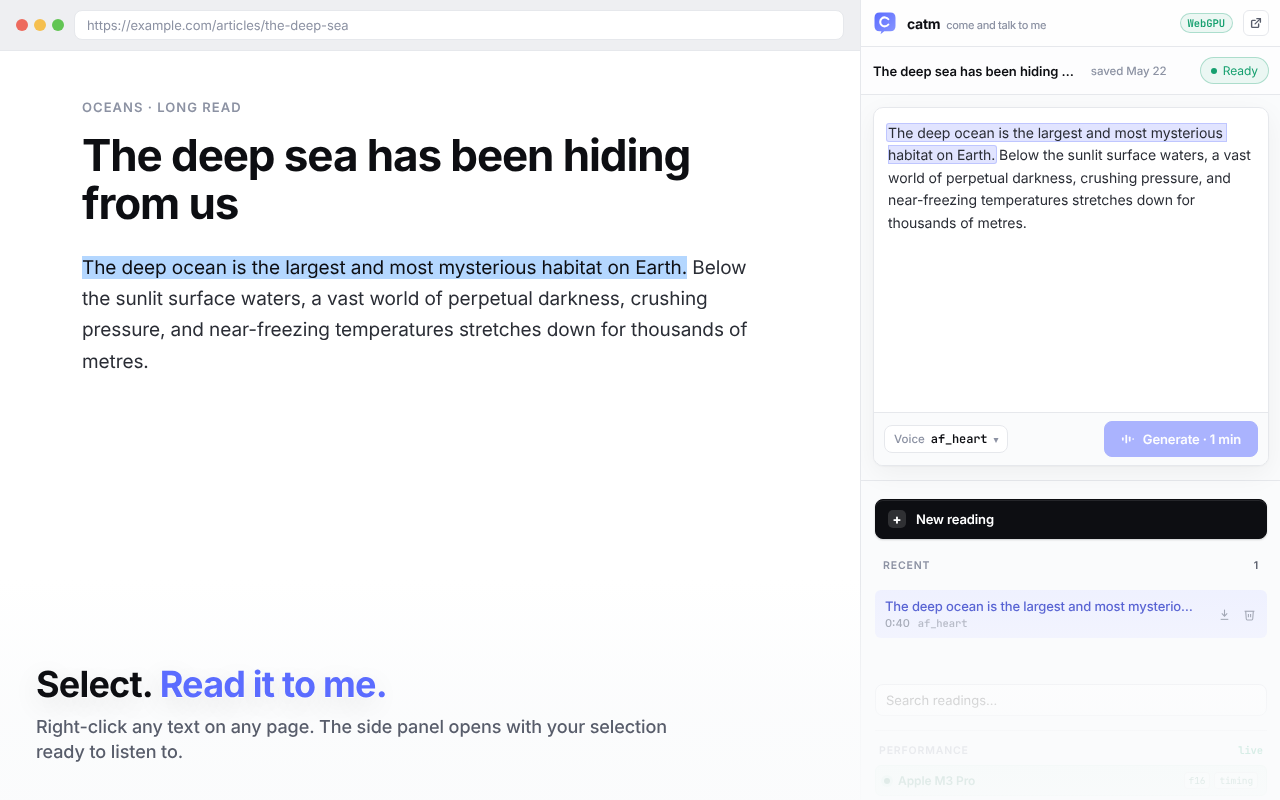
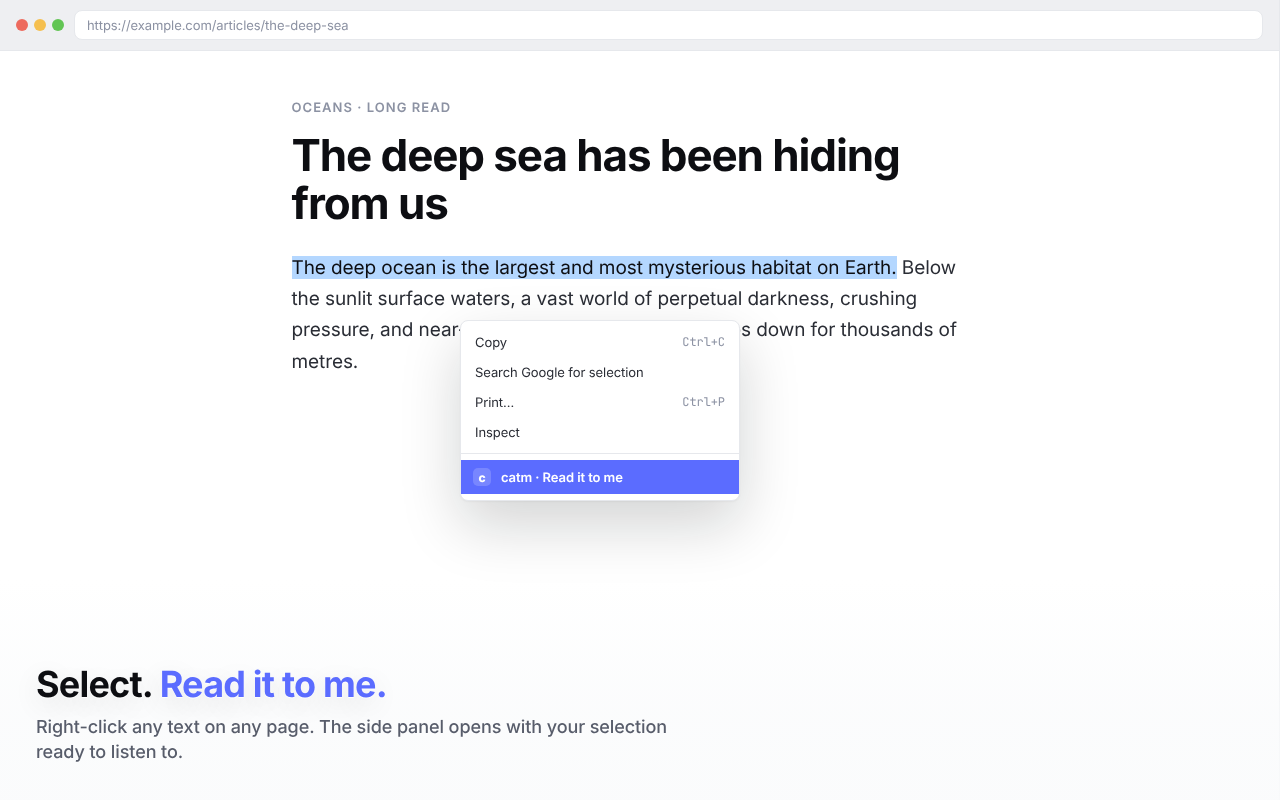
demo: lead onboarding scene with context menu, match CWS still
The previous onboarding CWS still was captured after the panel had
already opened, so the right-click → "catm · Read it to me" moment —
the differentiator vs other TTS extensions — wasn't visible. Pull the
overlay copy's startFrame back into the selection sweep so menu + copy
co-exist in a single frame, capture the still there, and update the
render.sh stills target to match.

diff --git a/demo/src/scenes/SceneOnboarding.tsx b/demo/src/scenes/SceneOnboarding.tsx
@@ -87,7 +87,10 @@ export function SceneOnboarding({ overlay }: SceneOnboardingProps): React.JSX.El
 
       <CopyOverlay
         overlay={overlay}
-        startFrame={PANEL_FRAME + 12}
+        // Fade in during the selection sweep so the headline is already
+        // present when the right-click menu opens. This gives a window in
+        // which menu + copy co-exist — needed for the CWS still.
+        startFrame={24}
         title={
           <>
             Select. <em style={{ color: "#5b6cff", fontStyle: "normal" }}>Read it to me.</em>